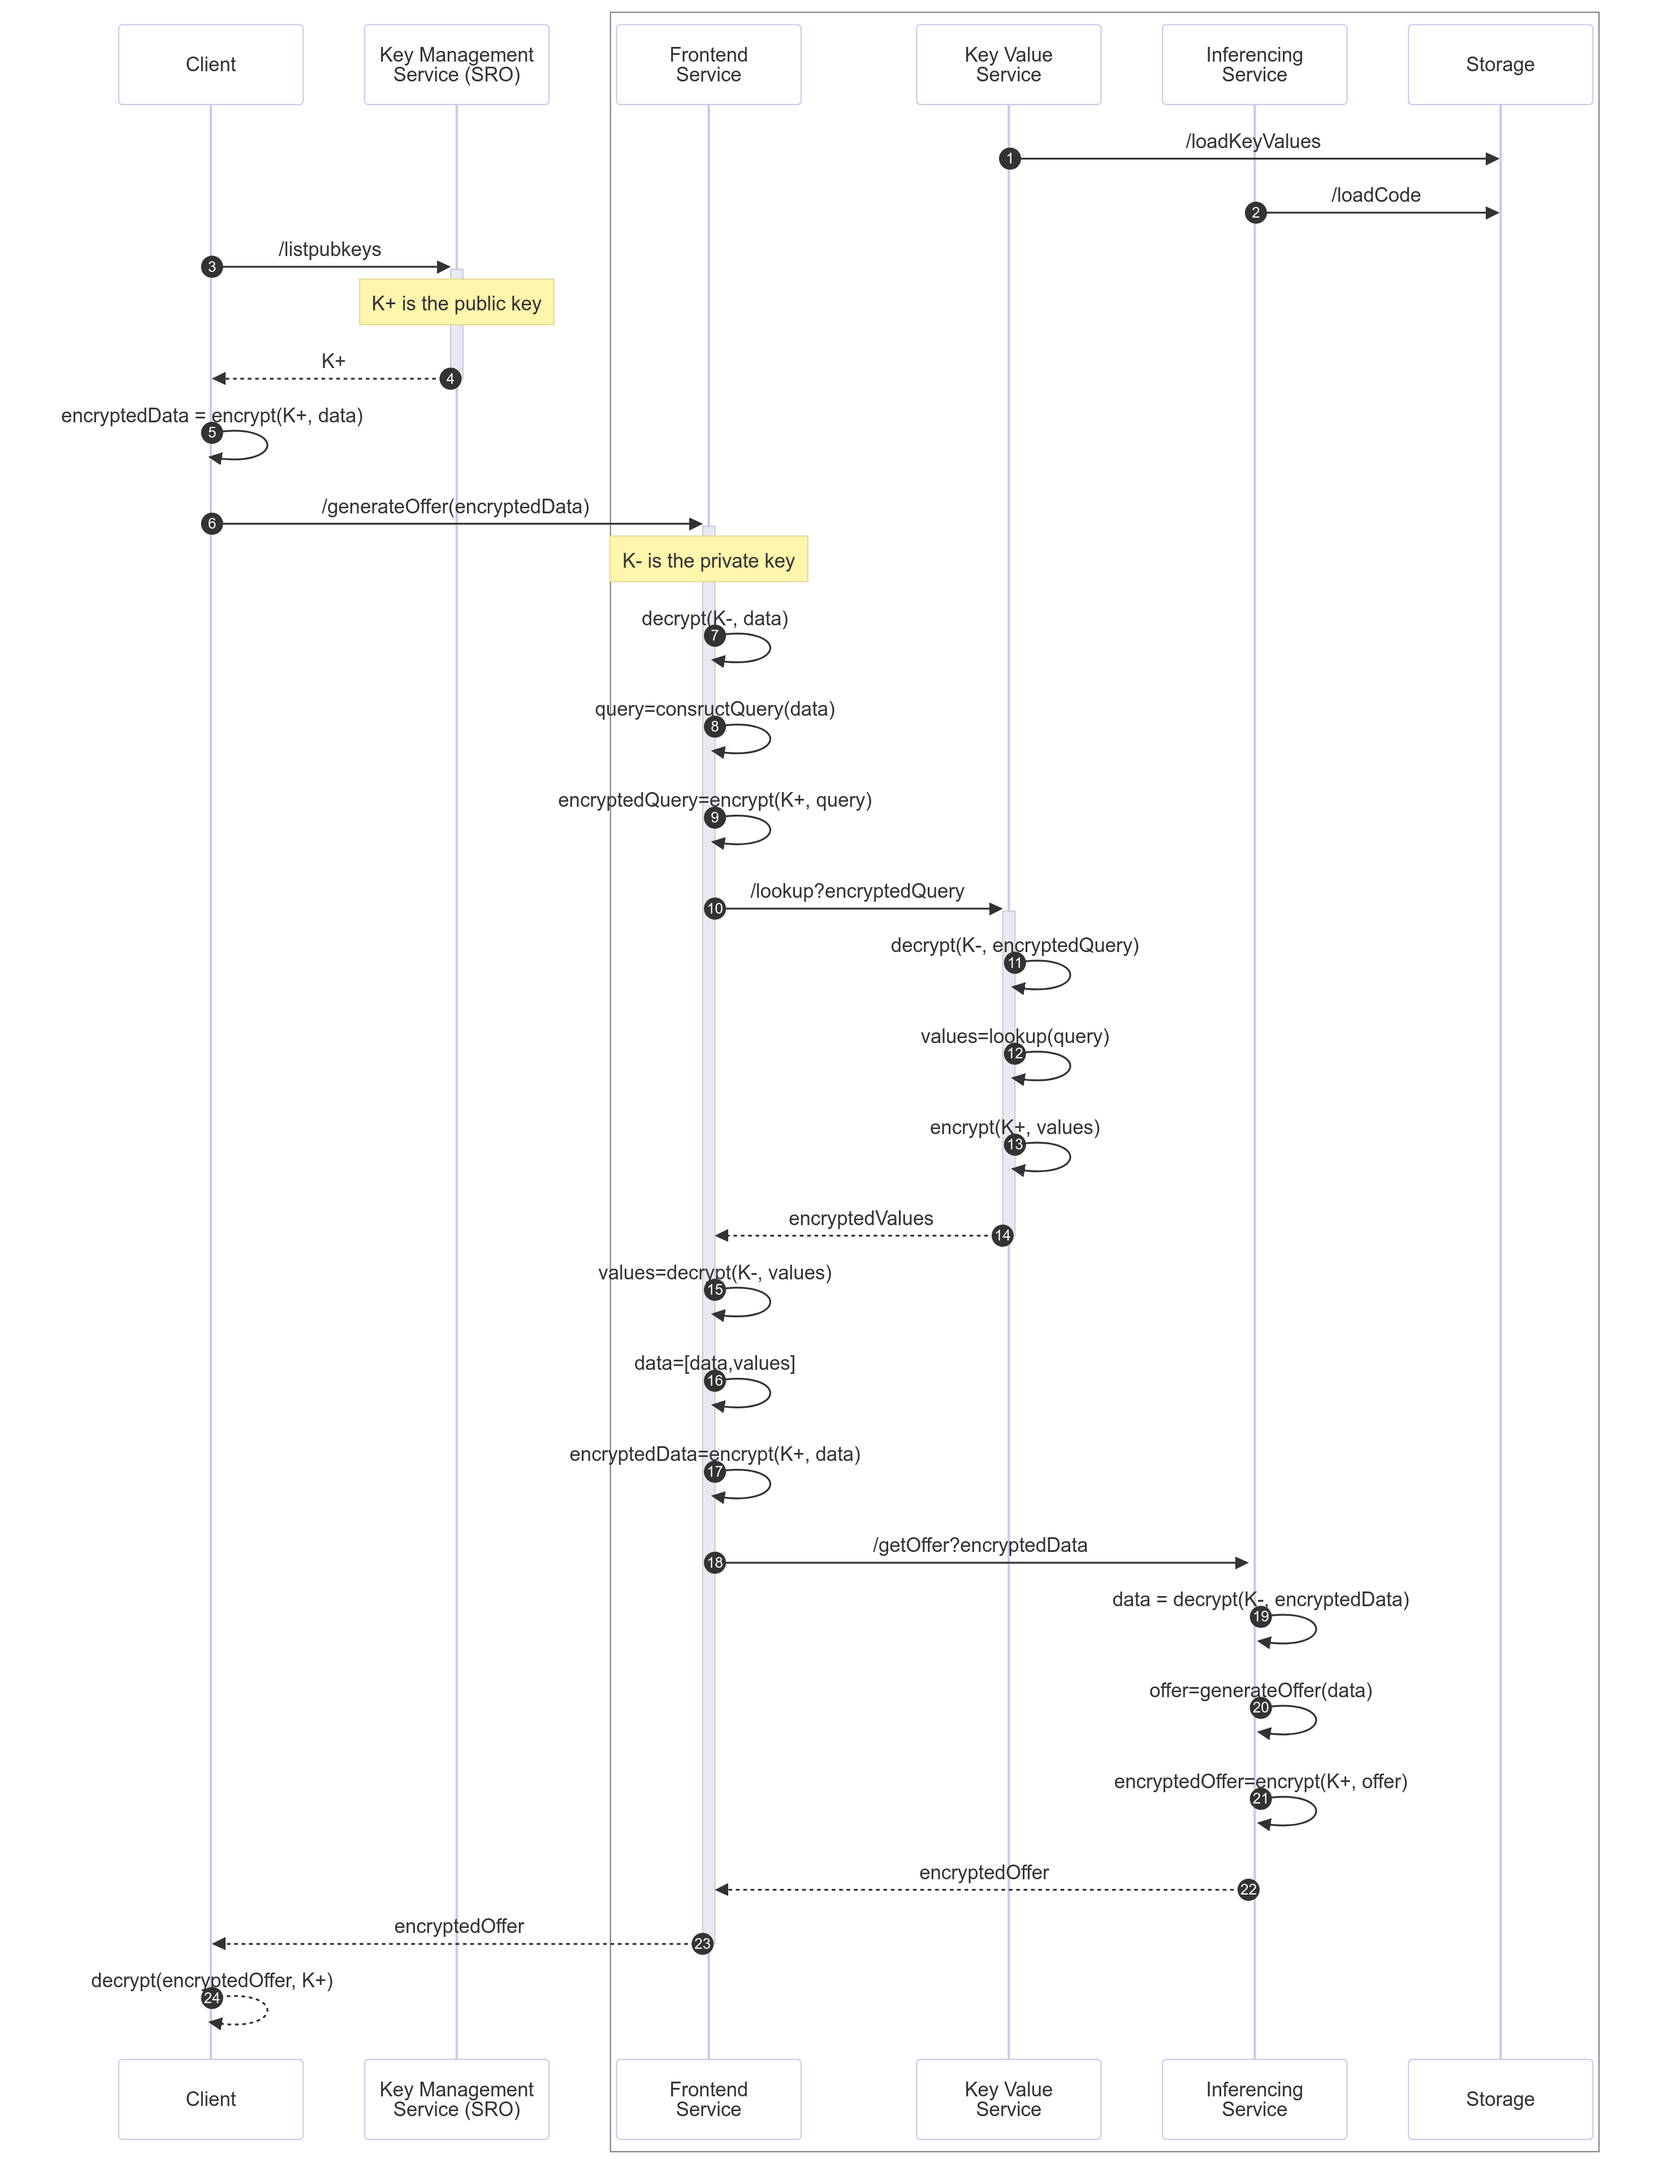
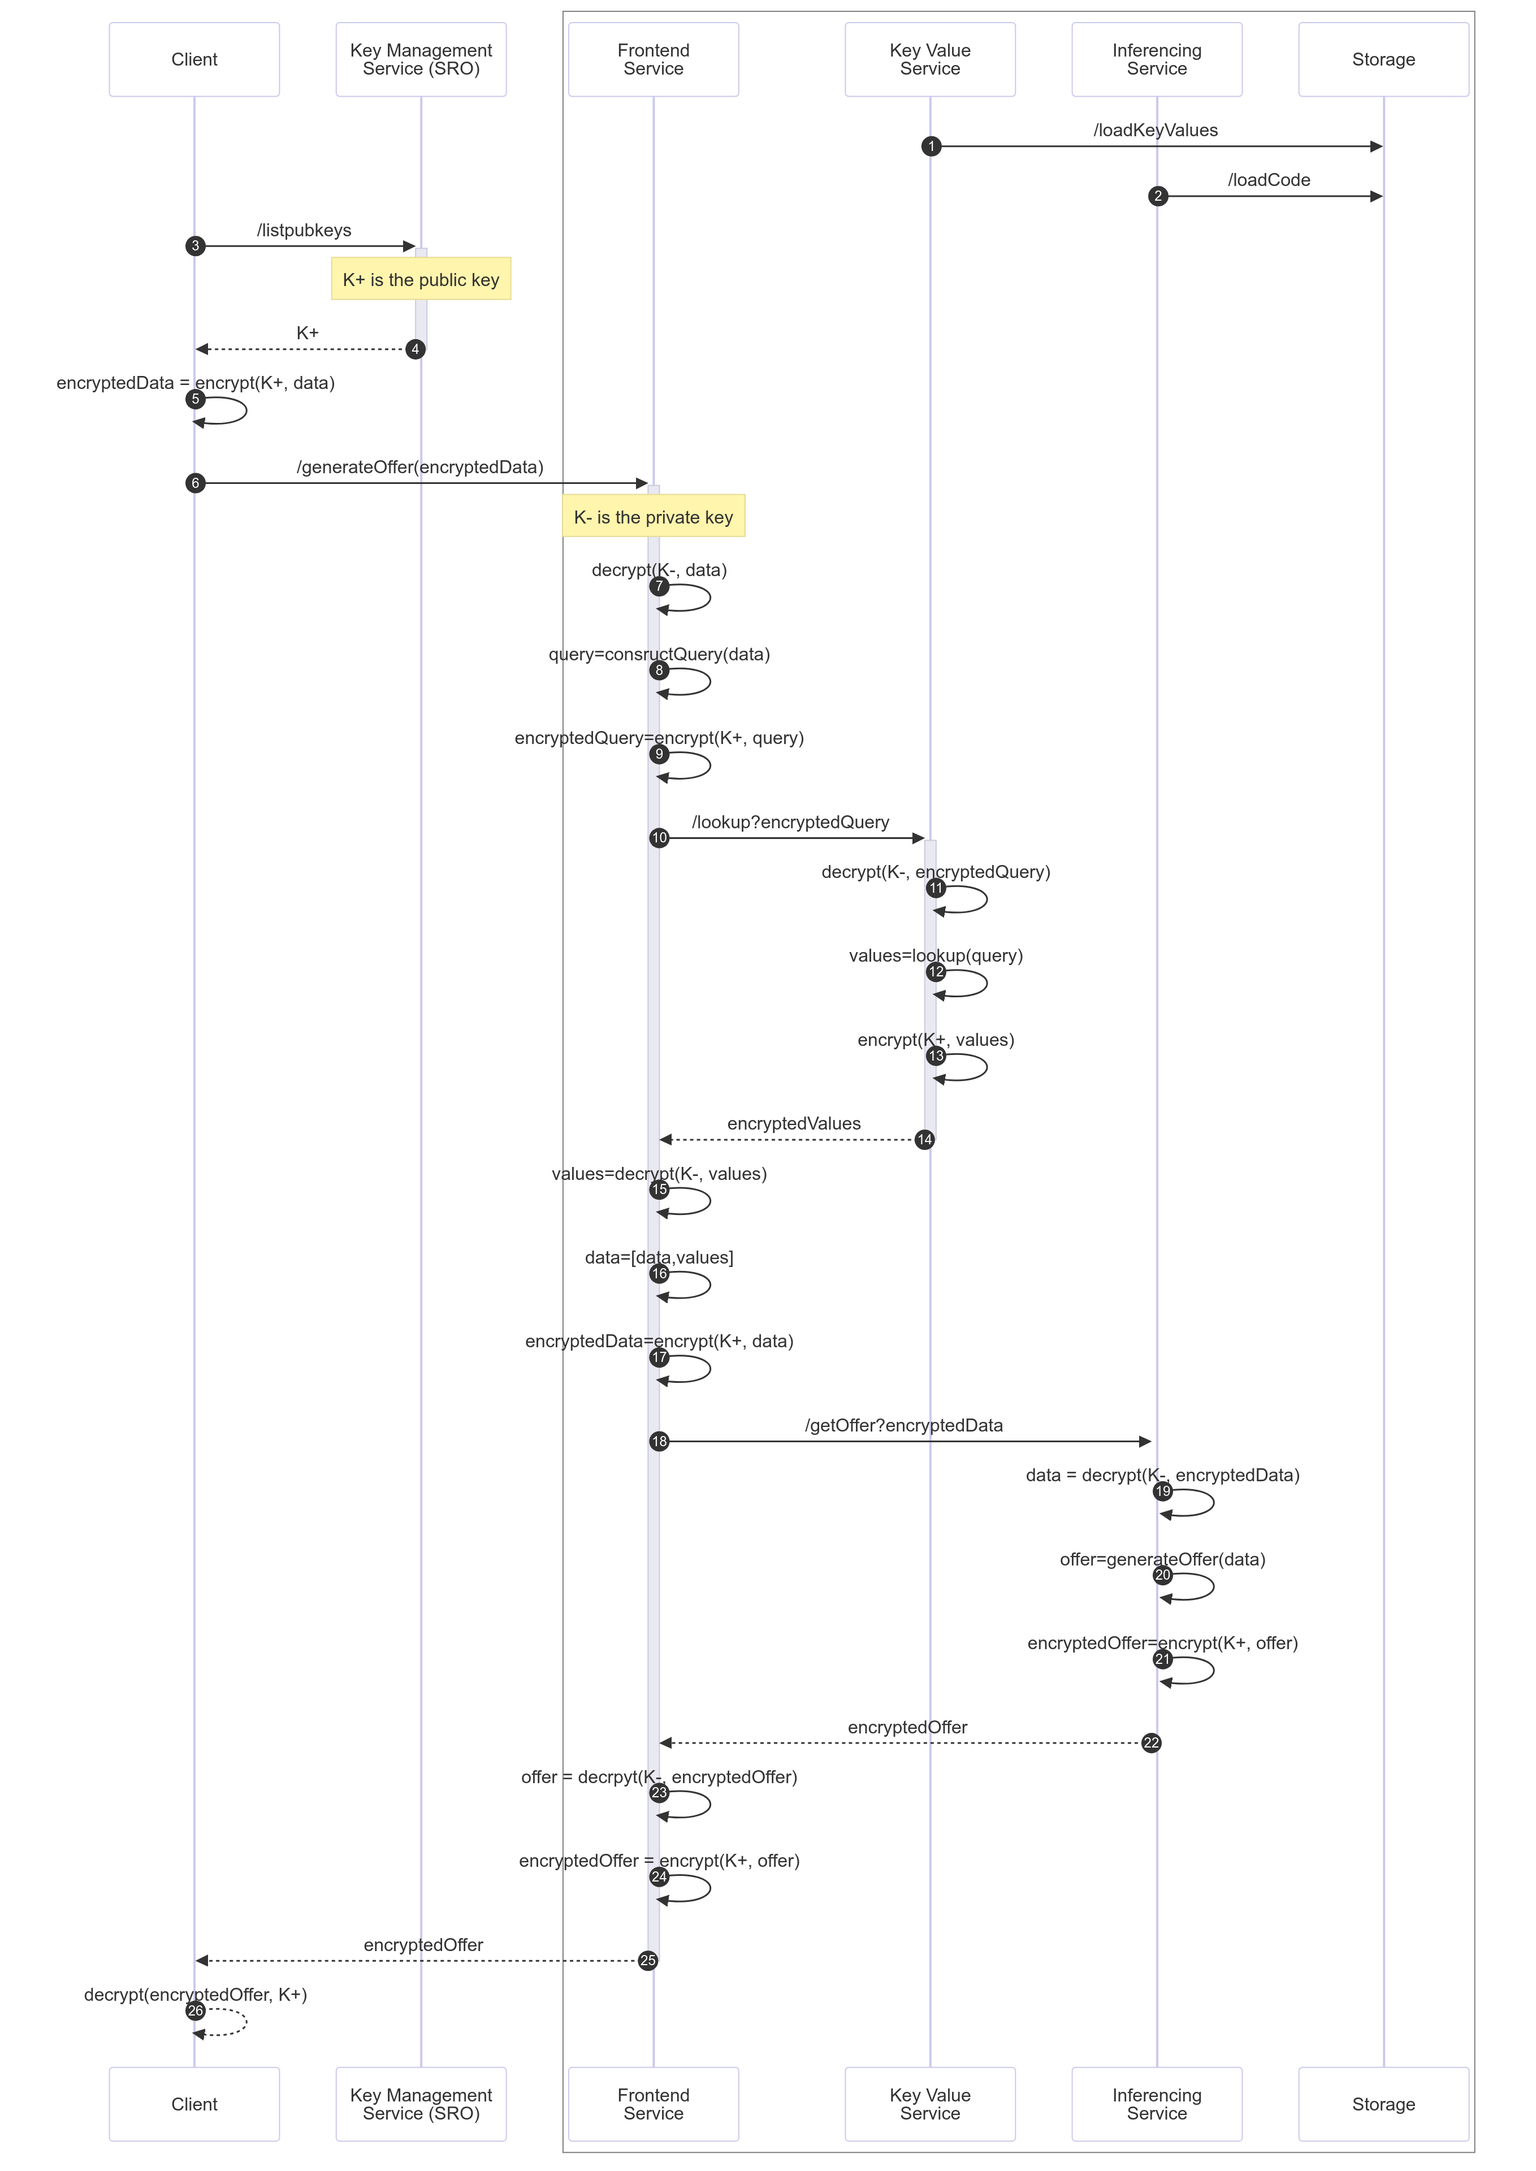
updated flow

diff --git a/docs/depa_inferencing_request_flow.md b/docs/depa_inferencing_request_flow.md
@@ -25,7 +25,9 @@ This explainer describe the end-to-end flow of requests through DEPA inferencing
 1. The inferencing service invokes the rule-engine to generate an offer. 
 1. The inferencing service encrypts the offer using HPKE encryption.
 1. The inferencing service sends the offer back to the Frontend service. 
-1. The Frontend service sends this offer back to the client. 
+1. The Frontend service decrypts the encrypted offer. 
+1. The Frontend service re-encrypts the offer with keys that are shared with the client. 
+1. The Frontend service send the encrypted offer to the client. 
 1. The client decrypts the offer and shows the offer to the data consumer. 
 
 At this point, the data consumer may choose to accept the offer by clicking on the offer. At this point, if the data provider wishes to share personal data with the data consumer, the data provider should obtain the data principal's explicit and granular consent.
